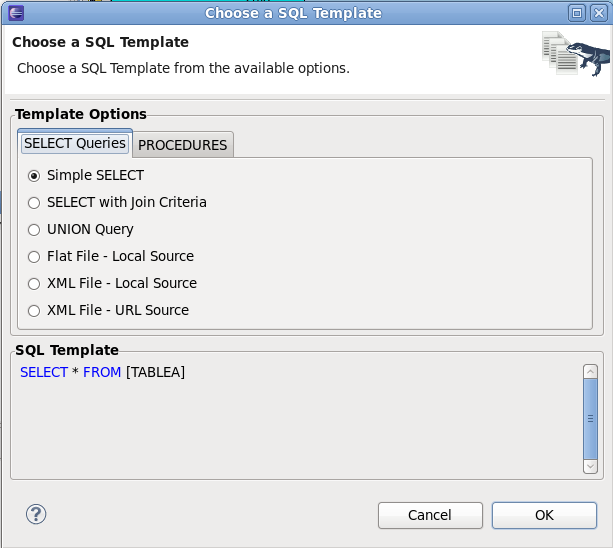
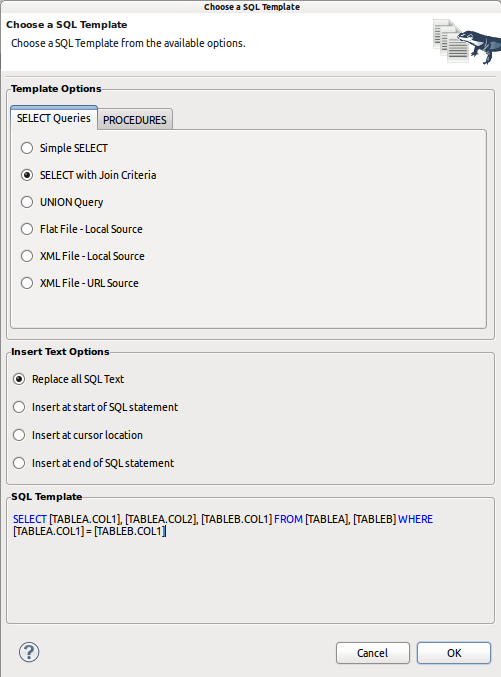
TEIIDDES-2037 Now allowing Insert SQL statement * Added options to replace all, insert at start, cursor and end of statement * Added comfirmation dialog if "replace all" option is chosen

Changed region(s): [[0.0, 0.0, 1.0, 1.0]]

diff --git a/plugins/org.teiid.designer.transformation.ui/src/org/teiid/designer/transformation/ui/wizards/sqlbuilder/SQLTemplateDialog.java b/plugins/org.teiid.designer.transformation.ui/src/org/teiid/designer/transformation/ui/wizards/sqlbuilder/SQLTemplateDialog.java
@@ -28,6 +28,7 @@ import org.eclipse.swt.widgets.Shell;
 import org.eclipse.swt.widgets.TabFolder;
 import org.eclipse.swt.widgets.TabItem;
 import org.teiid.core.designer.util.CoreStringUtil;
+import org.teiid.designer.query.sql.ISQLConstants;
 import org.teiid.designer.transformation.ui.Messages;
 import org.teiid.designer.transformation.ui.UiConstants.Images;
 import org.teiid.designer.transformation.ui.UiPlugin;
@@ -62,6 +63,9 @@ public class SQLTemplateDialog  extends TitleAreaDialog {
     Button xmlFileLocalSourceRB, xmlFileUrlSourceRB;
     Button simpleDefaultProcRB, insertDefaultProcRB, updateDefaultProcRB, deleteDefaultProcRB, 
     	soapCreateProcRB, soapExtractProcRB, restProcedureRB;
+    Button replaceSQL_RB, insertAtBeginning_RB, insertAtCursor_RB, insertAtEnd_RB;
+    
+    int insertOptionValue = 0;
 
     //=============================================================
     // Constructors
@@ -159,6 +163,53 @@ public class SQLTemplateDialog  extends TitleAreaDialog {
                 widgetSelected(e);
             }
         });
+        
+        Group optionsGroup = WidgetFactory.createGroup(parent, Messages.sqlTemplateInsertTextOptionsTitle, SWT.NONE, 1, 1);
+        optionsGroup.setLayoutData(new GridData(GridData.FILL_BOTH));
+        // Simple SELECT Query
+        this.replaceSQL_RB = WidgetFactory.createRadioButton(optionsGroup, Messages.sqlTemplateReplaceAllOptionLabel, SWT.NONE, 1, true);
+        this.replaceSQL_RB.addSelectionListener(new SelectionAdapter() {
+            @Override
+            public void widgetSelected( final SelectionEvent event ) {
+                updateInsertOption();
+            }
+        });
+        this.insertAtBeginning_RB = WidgetFactory.createRadioButton(optionsGroup,  Messages.sqlTemplateInsertAtBeginningOptionLabel, SWT.NONE, 1, false);
+        this.insertAtBeginning_RB.addSelectionListener(new SelectionAdapter() {
+            @Override
+            public void widgetSelected( final SelectionEvent event ) {
+                updateInsertOption();
+            }
+        });
+        this.insertAtCursor_RB = WidgetFactory.createRadioButton(optionsGroup,  Messages.sqlTemplateInsertAtCursorOptionLabel, SWT.NONE, 1, false);
+        this.insertAtCursor_RB.addSelectionListener(new SelectionAdapter() {
+            @Override
+            public void widgetSelected( final SelectionEvent event ) {
+                updateInsertOption();
+            }
+        });
+        this.insertAtEnd_RB = WidgetFactory.createRadioButton(optionsGroup,  Messages.sqlTemplateInsertAtEndOptionLabel, SWT.NONE, 1, false);
+        this.insertAtEnd_RB.addSelectionListener(new SelectionAdapter() {
+            @Override
+            public void widgetSelected( final SelectionEvent event ) {
+                updateInsertOption();
+            }
+        });
+    }
+    
+    void updateInsertOption() {
+    	this.insertOptionValue = ISQLConstants.INSERT_OPTIONS.REPLACE_ALL;
+    	if( insertAtCursor_RB.getSelection() ) {
+    		this.insertOptionValue = ISQLConstants.INSERT_OPTIONS.INSERT_AT_CURSOR;
+    	} else if( insertAtEnd_RB.getSelection() ) {
+    		this.insertOptionValue = ISQLConstants.INSERT_OPTIONS.INSERT_AT_END;
+    	} else if( insertAtBeginning_RB.getSelection() ) {
+    		this.insertOptionValue = ISQLConstants.INSERT_OPTIONS.INSERT_AT_BEGINNING;
+    	}
+    }
+    
+    public int getInsertOption() {
+    	return this.insertOptionValue;
     }
 
     /*

diff --git a/plugins/org.teiid.designer.transformation.ui/src/org/teiid/designer/transformation/ui/editors/ViewProcedureEditorPanel.java b/plugins/org.teiid.designer.transformation.ui/src/org/teiid/designer/transformation/ui/editors/ViewProcedureEditorPanel.java
@@ -14,6 +14,7 @@ import java.util.Set;
 
 import org.eclipse.core.runtime.IStatus;
 import org.eclipse.core.runtime.Status;
+import org.eclipse.jface.dialogs.MessageDialog;
 import org.eclipse.jface.layout.GridDataFactory;
 import org.eclipse.jface.layout.GridLayoutFactory;
 import org.eclipse.jface.text.Document;
@@ -50,6 +51,7 @@ import org.eclipse.swt.widgets.Text;
 import org.teiid.core.designer.util.CoreStringUtil;
 import org.teiid.designer.core.ModelerCore;
 import org.teiid.designer.metamodels.core.ModelType;
+import org.teiid.designer.query.sql.ISQLConstants;
 import org.teiid.designer.relational.RelationalConstants;
 import org.teiid.designer.relational.model.RelationalColumn;
 import org.teiid.designer.relational.model.RelationalParameter;
@@ -61,6 +63,7 @@ import org.teiid.designer.transformation.model.RelationalViewProcedure;
 import org.teiid.designer.transformation.ui.Messages;
 import org.teiid.designer.transformation.ui.editors.sqleditor.SqlTextViewer;
 import org.teiid.designer.transformation.ui.wizards.sqlbuilder.SQLTemplateDialog;
+import org.teiid.designer.transformation.util.SqlStringUtil;
 import org.teiid.designer.type.IDataTypeManagerService;
 import org.teiid.designer.ui.common.UILabelUtil;
 import org.teiid.designer.ui.common.UiLabelConstants;
@@ -976,10 +979,27 @@ public class ViewProcedureEditorPanel extends RelationalEditorPanel implements R
                 SQLTemplateDialog templateDialog = new SQLTemplateDialog(UiUtil.getWorkbenchShellOnlyIfUiThread(),
                                                                          SQLTemplateDialog.PROC_TEMPLATES);
                 if (templateDialog.open() == Window.OK) {
-                	String sql = templateDialog.getSQL();
-                	getRelationalReference().setTransformationSQL(sql);
-                    sqlDocument.set(sql);
+                	String originalSql = sqlDocument.get();
+                	boolean okToInsertOrReplace = true;
+                	if( templateDialog.getInsertOption() == ISQLConstants.INSERT_OPTIONS.REPLACE_ALL &&
+                			originalSql != null && originalSql.trim().length() > 0) {
+                		// make sure user want to replace all
+                		okToInsertOrReplace = MessageDialog.openConfirm(templateDialog.getShell(), 
+                				Messages.confirmSqlReplaceDialogTitle, 
+                				Messages.confirmSqlReplaceDialogMessage_2);
+                		
+                	}
+                	if( okToInsertOrReplace ) {
+	                	int caretOffset = sqlTextViewer.getTextWidget().getCaretOffset();
+	                	String newSql = SqlStringUtil.insertSql(
+	                			originalSql, 
+	                			templateDialog.getSQL(), 
+	                			templateDialog.getInsertOption(), 
+	                			caretOffset);
+	                	getRelationalReference().setTransformationSQL(newSql);
+	                    sqlDocument.set(newSql);
                     handleInfoChanged();
+                	}
                 }
             }
         });

diff --git a/plugins/org.teiid.designer.transformation.ui/src/org/teiid/designer/transformation/ui/editors/sqleditor/SqlEditorPanel.java b/plugins/org.teiid.designer.transformation.ui/src/org/teiid/designer/transformation/ui/editors/sqleditor/SqlEditorPanel.java
@@ -80,6 +80,7 @@ import org.teiid.designer.query.sql.lang.ILanguageObject;
 import org.teiid.designer.query.sql.lang.ISelect;
 import org.teiid.designer.query.sql.lang.ISetQuery;
 import org.teiid.designer.query.sql.lang.ISubqueryContainer;
+import org.teiid.designer.transformation.ui.Messages;
 import org.teiid.designer.transformation.ui.UiConstants;
 import org.teiid.designer.transformation.ui.UiPlugin;
 import org.teiid.designer.transformation.ui.builder.CriteriaBuilder;
@@ -95,6 +96,7 @@ import org.teiid.designer.transformation.ui.editors.sqleditor.actions.ToggleOpti
 import org.teiid.designer.transformation.ui.editors.sqleditor.actions.UpFont;
 import org.teiid.designer.transformation.ui.editors.sqleditor.actions.Validate;
 import org.teiid.designer.transformation.ui.wizards.sqlbuilder.SQLTemplateDialog;
+import org.teiid.designer.transformation.util.SqlStringUtil;
 import org.teiid.designer.transformation.util.TransformationHelper;
 import org.teiid.designer.ui.common.graphics.ColorManager;
 import org.teiid.designer.ui.common.text.ScaledFontManager;
@@ -377,12 +379,7 @@ public class SqlEditorPanel extends SashForm
         };
         this.applyTemplateAction.setToolTipText(Util.getString(APPLY_TEMPLATE_ACTION_TOOLTIP));
         this.applyTemplateAction.setText(Util.getString(APPLY_TEMPLATE_ACTION_TEXT));
-        String existingText = getText();
-        if (existingText != null && !existingText.isEmpty()) {
-            this.applyTemplateAction.setEnabled(false);
-        } else {
-            this.applyTemplateAction.setEnabled(true);
-        }
+        this.applyTemplateAction.setEnabled(true);
 
         manager.add(this.applyTemplateAction);
     }
@@ -391,7 +388,28 @@ public class SqlEditorPanel extends SashForm
         SQLTemplateDialog templateDialog = new SQLTemplateDialog(UiUtil.getWorkbenchShellOnlyIfUiThread(),
                                                                  SQLTemplateDialog.ALL_TEMPLATES);
         if (templateDialog.open() == Window.OK) {
-            setText(templateDialog.getSQL());
+        	boolean okToInsertOrReplace = true;
+        	if( templateDialog.getInsertOption() == ISQLConstants.INSERT_OPTIONS.REPLACE_ALL ) {
+        		// make sure user want to replace all
+        		okToInsertOrReplace = MessageDialog.openConfirm(templateDialog.getShell(), 
+        				Messages.confirmSqlReplaceDialogTitle, 
+        				Messages.confirmSqlReplaceDialogMessage);
+        		
+        	}
+        	if( okToInsertOrReplace ) {
+	        	int offset = getCaretOffset();
+	        	// Insert at the offset
+	        	
+	        	String currentSQL = getText();
+	        	
+	        	String newSql = SqlStringUtil.insertSql(
+	        			currentSQL, 
+	        			templateDialog.getSQL(), 
+	        			templateDialog.getInsertOption(), 
+	        			offset);
+	        	
+	            setText(newSql, templateDialog );
+        	}
         }
     }
 

diff --git a/plugins/org.teiid.designer.transformation.ui/src/org/teiid/designer/transformation/ui/editors/ViewTableEditorPanel.java b/plugins/org.teiid.designer.transformation.ui/src/org/teiid/designer/transformation/ui/editors/ViewTableEditorPanel.java
@@ -62,6 +62,7 @@ import org.teiid.designer.core.ModelerCore;
 import org.teiid.designer.core.workspace.ModelResource;
 import org.teiid.designer.core.workspace.ModelWorkspaceException;
 import org.teiid.designer.metamodels.core.ModelType;
+import org.teiid.designer.query.sql.ISQLConstants;
 import org.teiid.designer.relational.RelationalConstants;
 import org.teiid.designer.relational.model.RelationalColumn;
 import org.teiid.designer.relational.model.RelationalForeignKey;
@@ -81,6 +82,7 @@ import org.teiid.designer.transformation.model.RelationalViewTable;
 import org.teiid.designer.transformation.ui.Messages;
 import org.teiid.designer.transformation.ui.editors.sqleditor.SqlTextViewer;
 import org.teiid.designer.transformation.ui.wizards.sqlbuilder.SQLTemplateDialog;
+import org.teiid.designer.transformation.util.SqlStringUtil;
 import org.teiid.designer.type.IDataTypeManagerService;
 import org.teiid.designer.ui.common.UILabelUtil;
 import org.teiid.designer.ui.common.UiLabelConstants;
@@ -1188,10 +1190,26 @@ public class ViewTableEditorPanel extends RelationalEditorPanel implements Relat
                 SQLTemplateDialog templateDialog = new SQLTemplateDialog(UiUtil.getWorkbenchShellOnlyIfUiThread(),
                                                                          SQLTemplateDialog.TABLE_TEMPLATES);
                 if (templateDialog.open() == Window.OK) {
-                	String sql = templateDialog.getSQL();
-                	getRelationalReference().setTransformationSQL(sql);
-                    sqlDocument.set(sql);
-                    handleInfoChanged();
+                	String originalSql = sqlDocument.get();
+                	boolean okToInsertOrReplace = true;
+                	if( templateDialog.getInsertOption() == ISQLConstants.INSERT_OPTIONS.REPLACE_ALL &&
+                			originalSql != null && originalSql.trim().length() > 0) {
+                		// make sure user want to replace all
+                		okToInsertOrReplace = MessageDialog.openConfirm(templateDialog.getShell(), 
+                				Messages.confirmSqlReplaceDialogTitle, 
+                				Messages.confirmSqlReplaceDialogMessage_2);
+                		
+                	}
+                	if( okToInsertOrReplace ) {
+	                	int caretOffset = sqlTextViewer.getTextWidget().getCaretOffset();
+	                	String newSql = SqlStringUtil.insertSql(
+	                			originalSql, 
+	                			templateDialog.getSQL(), 
+	                			templateDialog.getInsertOption(), 
+	                			caretOffset);
+	                	getRelationalReference().setTransformationSQL(newSql);
+                    sqlDocument.set(newSql);
+                	}
                 }
             }
         });

diff --git a/plugins/org.teiid.designer.transformation/src/org/teiid/designer/transformation/util/SqlStringUtil.java b/plugins/org.teiid.designer.transformation/src/org/teiid/designer/transformation/util/SqlStringUtil.java
@@ -7,6 +7,7 @@
  */
 package org.teiid.designer.transformation.util;
 
+import org.teiid.core.designer.util.CoreArgCheck;
 import org.teiid.designer.query.sql.ISQLConstants;
 
 /**
@@ -336,5 +337,37 @@ public final class SqlStringUtil implements ISQLConstants {
                 start = source.toString().indexOf(search, start + replace.length());
             }
         }
-    }    
+    }
+    
+    /**
+     * Utility method used to insert or replace SQL text, or any text for that matter
+     * 
+     * @param originalSqlText
+     * @param newSqlText
+     * @param insertOption (See <code>ISQLConstants.INSERT_OPTIONS</code> for values)
+     * @param cursorOffset
+     * @return
+     */
+    public static String insertSql(final String originalSqlText, final String newSqlText, final int insertOption, final int cursorOffset) {
+    	CoreArgCheck.isTrue(insertOption <= INSERT_OPTIONS.INSERT_AT_END, "Insert SQL text option does not exist"); //$NON-NLS-1$
+    	// Insert at the offset
+    	switch( insertOption ) {
+
+    		case INSERT_OPTIONS.INSERT_AT_BEGINNING:  {
+        		return newSqlText + originalSqlText;
+        	}
+    		case INSERT_OPTIONS.INSERT_AT_CURSOR:  {
+    	    	StringBuilder sb = new StringBuilder();
+    	    	sb.append(originalSqlText.substring(0, cursorOffset));
+    	    	sb.append(newSqlText);
+    	    	sb.append(originalSqlText.substring(cursorOffset));
+    	    	return sb.toString();
+        	}
+    		case INSERT_OPTIONS.INSERT_AT_END:  {
+        		return originalSqlText + newSqlText;
+        	}
+    		case INSERT_OPTIONS.REPLACE_ALL:
+    		default: return newSqlText;
+    	}
+    }
 }

diff --git a/plugins/org.teiid.designer.spi/src/org/teiid/designer/query/sql/ISQLConstants.java b/plugins/org.teiid.designer.spi/src/org/teiid/designer/query/sql/ISQLConstants.java
@@ -85,17 +85,25 @@ public interface ISQLConstants {
     String FUNCTION_INVOKE = "invoke"; //$NON-NLS-1$
     String FUNCTION_INVOKE_HTTP = "invokeHttp"; //$NON-NLS-1$
     
-    String ROWCOUNT = "ROWCOUNT"; //$NON-NLS-1
+    String ROWCOUNT = "ROWCOUNT"; //$NON-NLS-1$
     String CHANGING = "CHANGING"; //$NON-NLS-1$
     String VARIABLES = "VARIABLES"; //$NON-NLS-1$
     String DVARS = "DVARS"; //$NON-NLS-1$
     
-    String DEFAULT_DELIMITER = ",";
-    String DEFAULT_QUOTE = "\"";
-    String DEFAULT_ESCAPE = "\\";
+    String DEFAULT_DELIMITER = ","; //$NON-NLS-1$
+    String DEFAULT_QUOTE = "\""; //$NON-NLS-1$
+    String DEFAULT_ESCAPE = "\\"; //$NON-NLS-1$
     
     String HEADER = "HEADER"; //$NON-NLS-1$
     String SKIP = "SKIP"; //$NON-NLS-1$
     String WIDTH = "width"; //$NON-NLS-1$
+    
+    interface INSERT_OPTIONS {
+    	int REPLACE_ALL = 0;
+    	int INSERT_AT_BEGINNING = 1;
+    	int INSERT_AT_CURSOR =  2;
+    	int INSERT_AT_END = 3;
+    	
+    }
 
 }

diff --git a/plugins/org.teiid.designer.transformation.ui/src/org/teiid/designer/transformation/ui/Messages.java b/plugins/org.teiid.designer.transformation.ui/src/org/teiid/designer/transformation/ui/Messages.java
@@ -164,6 +164,14 @@ public class Messages extends NLS {
     public static String sqlTemplateDialogSqlAreaGroup;
     public static String sqlTemplateDialogSelectTabTitle;
     public static String sqlTemplateDialogProceduresTabTitle;
+    public static String sqlTemplateInsertTextOptionsTitle;
+    public static String sqlTemplateReplaceAllOptionLabel;
+    public static String sqlTemplateInsertAtBeginningOptionLabel;
+    public static String sqlTemplateInsertAtCursorOptionLabel;
+    public static String sqlTemplateInsertAtEndOptionLabel;
+    public static String confirmSqlReplaceDialogTitle;
+    public static String confirmSqlReplaceDialogMessage;
+    public static String confirmSqlReplaceDialogMessage_2;
     
     public static String DefaultUpdateMessageOK;
     public static String DefaultUpdateMessageAmbigious;

diff --git a/plugins/org.teiid.designer.spi/src/org/teiid/designer/runtime/version/spi/ITeiidServerVersion.java b/plugins/org.teiid.designer.spi/src/org/teiid/designer/runtime/version/spi/ITeiidServerVersion.java
@@ -39,7 +39,7 @@ public interface ITeiidServerVersion {
     /**
      * Default teiid 8 server version
      */
-    String DEFAULT_TEIID_8_SERVER_ID = EIGHT + DOT + FOUR + DOT + ZERO;
+    String DEFAULT_TEIID_8_SERVER_ID = EIGHT + DOT + SIX + DOT + ZERO;
 
     /**
      * Default teiid 7 server version
